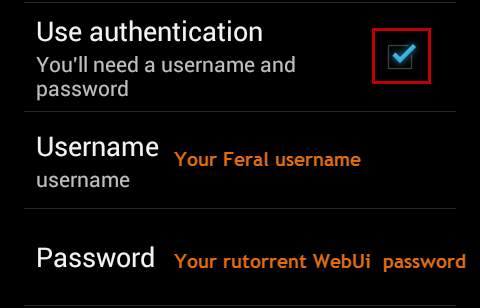
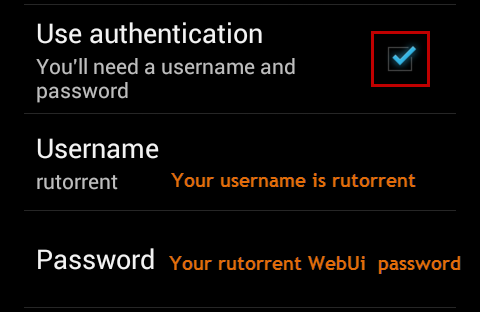
images

diff --git a/Feral Wiki/Other software/Using Transdroid to Control rTorrent - Deluge - Transmission From Your Android Phone/readme.md b/Feral Wiki/Other software/Using Transdroid to Control rTorrent - Deluge - Transmission From Your Android Phone/readme.md
@@ -25,7 +25,11 @@ Click `Add new server`.
 
 **Port:** `80` ( `443` can be used if you check `SSL` and `accept all certs` )
 
+![](https://raw.github.com/feralhosting/feralfilehosting/master/Feral%20Wiki/Other%20software/Using%20Transdroid%20to%20Control%20rTorrent%20-%20Deluge%20-%20Transmission%20From%20Your%20Android%20Phone/rutorrent/rutorrent.host.png)
+
 **SCGI Folder:** `/rtorrent/rpc` (case sensitive)
+
+![](https://raw.github.com/feralhosting/feralfilehosting/master/Feral%20Wiki/Other%20software/Using%20Transdroid%20to%20Control%20rTorrent%20-%20Deluge%20-%20Transmission%20From%20Your%20Android%20Phone/rutorrent/rutorrent.rpc.png)
 
 **Use authentication:** `Yes` (checked)
 
@@ -33,7 +37,15 @@ Click `Add new server`.
 
 **Password:** The password listed on your manager page for the rutorrent Web Gui
 
+![](https://raw.github.com/feralhosting/feralfilehosting/master/Feral%20Wiki/Other%20software/Using%20Transdroid%20to%20Control%20rTorrent%20-%20Deluge%20-%20Transmission%20From%20Your%20Android%20Phone/rutorrent/rutorrent.auth.png)
+
 **Server OS:** `Linux`
+
+![](https://raw.github.com/feralhosting/feralfilehosting/master/Feral%20Wiki/Other%20software/Using%20Transdroid%20to%20Control%20rTorrent%20-%20Deluge%20-%20Transmission%20From%20Your%20Android%20Phone/rutorrent/rutorrent.os.png)
+
+** SSL **
+
+![](https://raw.github.com/feralhosting/feralfilehosting/master/Feral%20Wiki/Other%20software/Using%20Transdroid%20to%20Control%20rTorrent%20-%20Deluge%20-%20Transmission%20From%20Your%20Android%20Phone/rutorrent/rutorrent.ssl.png)
 
 ### Deluge
 
@@ -43,17 +55,29 @@ Set IP/domain to:
 server.feralhosting.com
 ~~~
 
-**Port:** `80` ( `443` can be used if you check `SSL` and `accept all certs` )
+**Port:** `443`
+
+![](https://raw.github.com/feralhosting/feralfilehosting/master/Feral%20Wiki/Other%20software/Using%20Transdroid%20to%20Control%20rTorrent%20-%20Deluge%20-%20Transmission%20From%20Your%20Android%20Phone/deluge/deluge.host.png)
 
 **Deluge Web Password:** your Web Gui password from your Slot Details page. (Not to be confused with require Authentication) 
 
+![](https://raw.github.com/feralhosting/feralfilehosting/master/Feral%20Wiki/Other%20software/Using%20Transdroid%20to%20Control%20rTorrent%20-%20Deluge%20-%20Transmission%20From%20Your%20Android%20Phone/deluge/deluge.webpass.png)
+
 **Folder:** `/username/deluge`
+
+![](https://raw.github.com/feralhosting/feralfilehosting/master/Feral%20Wiki/Other%20software/Using%20Transdroid%20to%20Control%20rTorrent%20-%20Deluge%20-%20Transmission%20From%20Your%20Android%20Phone/deluge/deluge.folder.png)
 
 The important one is the Folder field. You need the `/` at the beginning and no trailing slash.
 
 **Server OS:** `Linux`
 
+![](https://raw.github.com/feralhosting/feralfilehosting/master/Feral%20Wiki/Other%20software/Using%20Transdroid%20to%20Control%20rTorrent%20-%20Deluge%20-%20Transmission%20From%20Your%20Android%20Phone/deluge/deluge.os.png)
+
 If you get an error about Web Gui not being connected to a daemon log in via the Web Gui and connect to the daemon, then try again.
+
+** SSL **
+
+![](https://raw.github.com/feralhosting/feralfilehosting/master/Feral%20Wiki/Other%20software/Using%20Transdroid%20to%20Control%20rTorrent%20-%20Deluge%20-%20Transmission%20From%20Your%20Android%20Phone/deluge/deluge.ssl.png)
 
 
 
